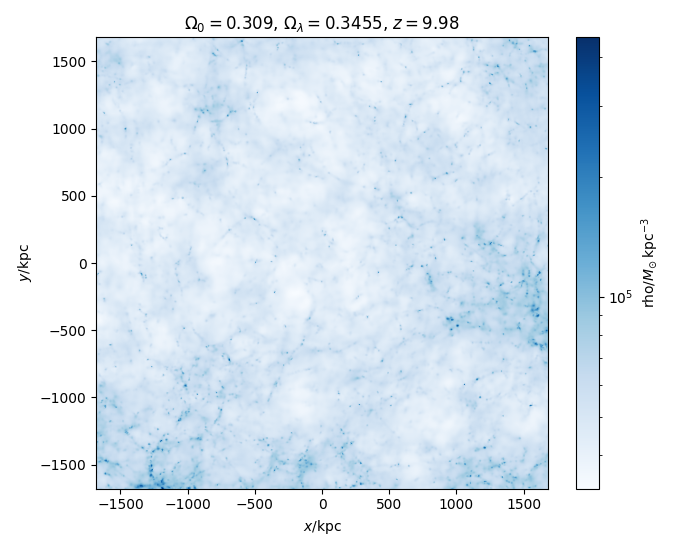
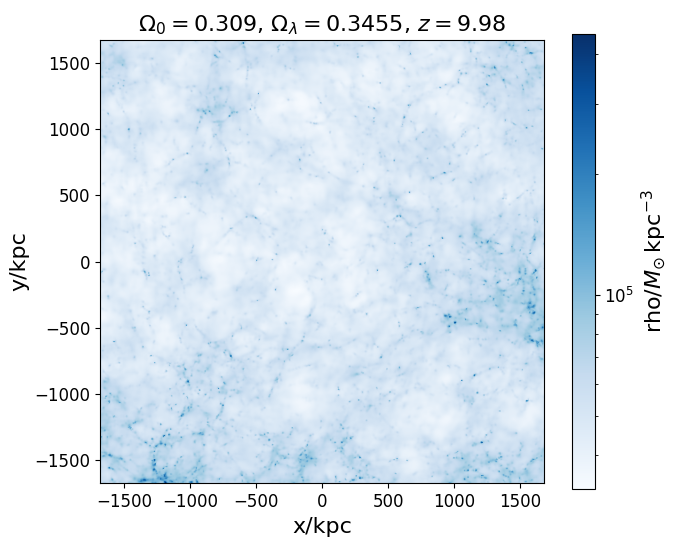
DensMap FontSize

diff --git a/WorkingData/Density_Map.py b/WorkingData/Density_Map.py
@@ -30,11 +30,11 @@ plt.rc('figure', titlesize=BIGGER_SIZE)  # fontsize of the figure title
 print ("Figura Lista")
 
 #Ubicacion de los archivos
-sim = 'RunLow0'
+sim = 'RunHighLam'
 arcNameG4 = "/home/martin/Documentos/Tesis/WorkingData/StandardResolution/"+sim+"/snapshot/"
 
 #Cargar Snapshots
-snap17 = pnb.load(filename= arcNameG4 + "snapshot_027.hdf5")
+snap17 = pnb.load(filename= arcNameG4 + "snapshot_033.hdf5")
 print ("Cargar snapshots Lista")
 
 #Tratar en umidades fisicas
